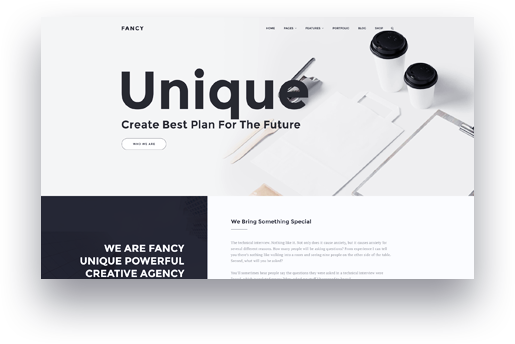
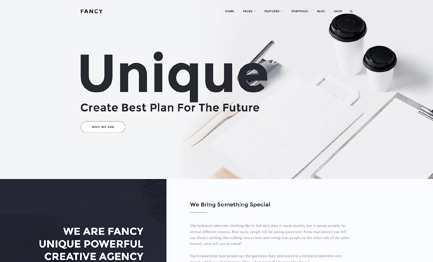
loi

diff --git a/langdingpage/css/style.css b/langdingpage/css/style.css
@@ -27,6 +27,7 @@ body{
 }
 .header{
 	background-image: url(../images/background-header.png);
+	padding-bottom: 50px;
 }
 .header .menu-header{
 	display: flex;
@@ -120,11 +121,12 @@ body{
 	color: #d9dfeb;
 	font-style: italic;
 }
-.header .text-logo .button-text{
+.header .text-logo .logo .logo2 .button-text{
 	text-align: center;
 	margin: 30px 0;
+
 }
-.header .text-logo .button-text button{
+.header .text-logo .logo .logo2 .button-text button{
 	border: none;
 	outline: none;
 	color: #fff;
@@ -138,20 +140,106 @@ body{
 	cursor: pointer;
 	text-transform: uppercase;
 }
-.header .text-logo .button-text button:hover{
+.header .text-logo .logo .logo2 .button-text button:hover{
 	background-color: #fff;
 	color: #1b1e30;
 	border: 1px solid #fff;
 }
-.header .text-logo .img-block {
+.header .text-logo .logo .logo2 .img-block {
 	display: flex;
 	justify-content: center;
 }
-.header .text-logo .img-block .img-logo{
-	width: 50%;
-
+.header .text-logo .logo .logo2 .img-block .img-logo{
+	width: 70%;
 }
-.header .text-logo .img-block .img-logo img{
+.header .text-logo .logo .logo2 .img-block .img-logo img{
 	width: 100%;
 	height: auto;
+}
+.header .text-logo .logo{
+	position: relative;
+	padding-bottom: 50px;
+}
+.header .text-logo .logo .logo1{
+	position: absolute;
+	top: 0;
+	left: -25%;
+}
+.header .text-logo .logo .logo1 .img-block1{
+	position: relative;
+}
+.header .text-logo .logo .logo1 .img-block1 img{
+	position: absolute;
+}
+.header .text-logo .logo .logo1 .img-block1 #img03{
+	top: 0;
+	left: 0;
+	transform: translateY(130%);
+}
+.header .text-logo .logo .logo1 .img-block1 #img02{
+	top: 10px;
+	transform: translateX(50%);
+}
+.header .text-logo .logo .logo1 .img-block1 #img01{
+	top: 125px;
+	left: -50px;
+}
+.header .text-logo .logo .logo3{
+	position: absolute;
+	top: 0;
+	right:0;
+}
+.header .text-logo .logo .logo3 .img-block3{
+	position: relative;
+}
+.header .text-logo .logo .logo3 .img-block3 img{
+	position: absolute;
+}
+.header .text-logo .logo .logo3 .img-block3 #img303{
+    transform: translateY(150%);
+    top: 40px;
+    left: -152px;
+}
+.header .text-logo .logo .logo3 .img-block3 #img302{
+
+}
+.header .text-logo .logo .logo3 .img-block3 #img301{
+	left: -196px;
+	top: 80px;
+	z-index: 2;
+}
+.header .text-logo .logo .logo3 .img-block3 #img304{
+	transform: translateY(190%);
+    left: 200px;
+}
+.creative{
+	margin-top: 100px;
+}
+.creative .top .header-top{
+	position: relative;
+}
+.creative .top .header-top h1{
+	color: #f1f1f3;
+	font-size: 120px;
+	text-transform: uppercase;
+	font-weight: bold;
+	text-align: center;
+	position: relative;
+}
+.creative .top .header-top h6{
+	color: #333333;
+	font-size: 36px;
+	font-weight: bold;
+	text-align: center;
+	position: absolute;
+	top: 50%;
+	left: 50%;
+	transform: translate(-50%,-50%);
+	
+}
+.creative .top p{
+	color: #7b7b7b;
+	font-size: 15px;
+	text-align: center;
+	font-weight: 400;
 }

diff --git a/langdingpage/index.html b/langdingpage/index.html
@@ -42,19 +42,50 @@
 							<h4>Welcome to fancy</h4>
 							<p>Ultimate Creative,Business,Portfolio,Multiparpase WP Theme</p>
 						</div>
-						<div class="button-text">
-							<button type="button">live preview</button>
-							<button type="button">purchase now</button>
-						</div>
-						<div class="img-block">
-							<div class="img-logo">
-								<img src="images/Macbook.png">
+						<div class="logo">
+							<div class="logo1">
+								<div class="img-block1">
+									<img id="img01" src="images/Group 11.png">
+									<img id="img02" src="images/Group 10.png">
+									<img id="img03" src="images/Group 9.png">
+								</div>
 							</div>
+							<div class="logo2">
+								<div class="button-text">
+									<button type="button">live preview</button>
+									<button type="button">purchase now</button>
+								</div>
+								<div class="img-block">
+									<div class="img-logo">
+										<img src="images/Macbook.png">
+									</div>
+								</div>
+							</div>
+							<div class="logo3">
+									<div class="img-block3">
+										<img id="img301" src="images/Layer 605.png">
+										<img id="img302" src="images/Layer 606.png">
+										<img id="img303" src="images/Layer 602.png">
+										<img id="img304" src="images/30_Coming_soon.png">
+									</div>
+								</div>
 						</div>
 					</div>
 				</div>
 			</section>
-
+			<!-- Creative Demos -->
+			<section class="creative">
+				<div class="top">
+					<div class="header-top">
+						<h1>creative demos</h1>
+						<h6>Our Stunning Demos</h6>
+					</div>
+					<p>
+						Have you noticed how everybody takes it for granted a bad experience is automatically, unreservedly, unremittingly bad?<br>
+						That nothing good could ever come from a bad childhood, for example? I’m hearing the comment.
+					</p>
+				</div>
+			</section>
 		</section>
 		<script src="lib/jquery/jquery.3.3.1.js"></script>
 		<script src="lib/js/bootstrap.min.js"></script>
